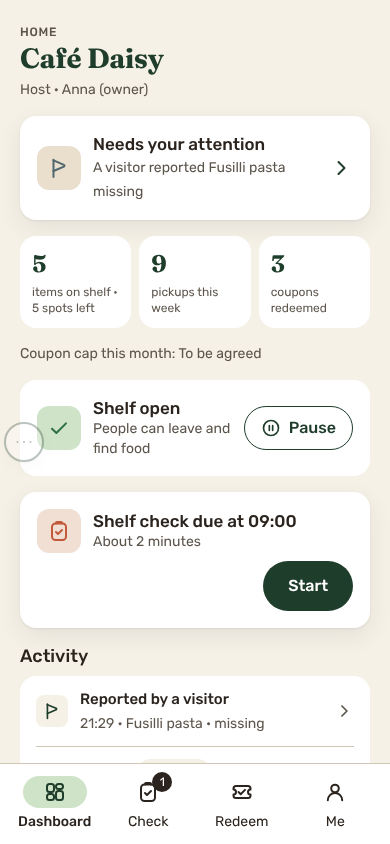
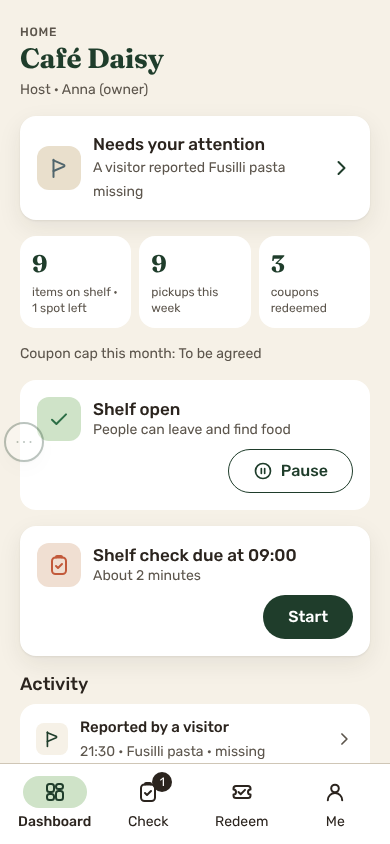
QA round 11: one 44px button size everywhere; H06 Pause sits bottom right like Start
Claude-Session: https://claude.ai/code/session_019nAgAZrg3yS11uUXaPsh2b

Changed region(s): [[0.0308, 0.4621, 0.9538, 0.8934], [0.0923, 0.2773, 0.2462, 0.3697], [0.8923, 0.4929, 0.9231, 0.5237]]

diff --git a/index.html b/index.html
@@ -751,7 +751,7 @@ svg.leaflet-image-layer.leaflet-interactive path {
   --shadow-sheet:0 -4px 24px rgba(43,36,30,.12);
   --shadow-focus:0 0 0 2px #FFFFFF,0 0 0 5px #2F6E8C;
   /* size and motion */
-  --size-tap-min:44px; --size-control:48px; --frame-max:430px; --size-avatar:48px; --size-tab-indicator:64px;
+  --size-tap-min:44px; --size-button:44px; /* [NEW] QA round 11 (Q104): every button, was 48 (+ border = 51) */ --size-control:48px; --frame-max:430px; --size-avatar:48px; --size-tab-indicator:64px;
   --motion-fast:150ms; --motion-base:250ms; --ease:cubic-bezier(.2,0,0,1);
   --motion-tab:200ms; --ease-in-out:cubic-bezier(.65,0,.35,1); /* [NEW] QA round 2: sliding tab indicator */
   /* [NEW] QA round 3: notifications (top toasts) */
@@ -952,7 +952,7 @@ h1[tabindex="-1"]:focus,h2[tabindex="-1"]:focus{box-shadow:none}
 /* ---- Button: v0.5 pill ---- */
 .btn{
   display:inline-flex;align-items:center;justify-content:center;gap:var(--space-8);
-  min-height:var(--size-control);padding:var(--space-12) var(--space-24);
+  min-height:var(--size-button);padding:var(--space-8) var(--space-24);   /* QA round 11: one button size everywhere, 44px */
   border-radius:var(--radius-full);border:var(--border-w) solid transparent;
   font:var(--type-button);text-align:center;text-decoration:none;
   transition:background-color var(--motion-fast) var(--ease),transform var(--motion-fast) var(--ease);
@@ -1474,7 +1474,7 @@ button.settings__row:active{background:var(--surface-canvas)}
 .log__main{display:flex;flex-wrap:wrap;align-items:center;gap:var(--space-4) var(--space-8)}
 .log__title{font:var(--type-body-list);font-weight:500}
 .log__sub{flex-basis:100%;font:var(--type-body-small);color:var(--text-secondary)}
-.shelfstate .btn{flex:none;min-height:var(--size-tap-min);padding:var(--space-8) var(--space-16)}
+.shelfstate .btn{flex:none}
 .shelfstate__note{margin-top:var(--space-12)}
 .log__time{font:var(--type-body-small);color:var(--text-tertiary);white-space:nowrap}
 
@@ -1736,7 +1736,7 @@ button.settings__row:active{background:var(--surface-canvas)}
 .modfab .icon{color:var(--icon-primary)}
 .modfab.is-active,.modfab:focus-visible{opacity:1}
 .modfab.is-dragging{transition:opacity var(--motion-fast) var(--ease);cursor:grabbing}
-.mod .btn{min-height:var(--size-tap-min);padding:var(--space-8) var(--space-12);font:var(--type-label)}
+.mod .btn{padding-left:var(--space-12);padding-right:var(--space-12);font:var(--type-label)}
 .mod__grid{display:grid;grid-template-columns:1fr 1fr;gap:var(--space-8)}
 .mod__sec{display:flex;flex-direction:column;gap:var(--space-8);padding-top:var(--space-16);margin-top:var(--space-16);border-top:1px solid var(--border-subtle)}
 .mod select{width:100%;min-height:var(--size-control);border-radius:var(--radius-md);border:var(--border-w) solid var(--border-strong);background:var(--surface-default);padding:0 var(--space-12);font:var(--type-body)}
@@ -5853,9 +5853,9 @@ Views.hostDash = {
         <p class="t-small c-secondary">Coupon cap this month: To be agreed</p>
         <section class="card shelfstate${paused ? ' is-paused' : ''}" aria-labelledby="h06-state">
           <div class="row"><span class="tile ${paused ? 'tile--oat' : ''}">${icon(paused ? 'pause' : 'done', paused ? 'icon--waiting' : 'icon--success')}</span>
-            <div class="grow"><h2 class="t-title" id="h06-state">${paused ? 'Shelf paused' : 'Shelf open'}</h2><p class="t-small c-secondary">${paused ? `${esc(v.paused.reason)} · until ${esc(v.paused.until)}` : 'People can leave and find food'}</p></div>
-            ${paused ? UI.button({ label: 'Resume', icon: 'retry', attrs: 'data-resume' }) : UI.button({ label: 'Pause', variant: 'secondary', icon: 'pause', attrs: 'data-href="#/host/pause"' })}</div>
-          ${paused ? '<p class="t-small c-secondary shelfstate__note">People see “Paused” on the map. Pickups are still allowed.</p>' : ''}</section>
+            <div class="grow"><h2 class="t-title" id="h06-state">${paused ? 'Shelf paused' : 'Shelf open'}</h2><p class="t-small c-secondary">${paused ? `${esc(v.paused.reason)} · until ${esc(v.paused.until)}` : 'People can leave and find food'}</p></div></div>
+          ${paused ? '<p class="t-small c-secondary shelfstate__note">People see “Paused” on the map. Pickups are still allowed.</p>' : ''}
+          <div class="row" style="justify-content:flex-end;margin-top:var(--space-8)">${paused ? UI.button({ label: 'Resume', icon: 'retry', attrs: 'data-resume' }) : UI.button({ label: 'Pause', variant: 'secondary', icon: 'pause', attrs: 'data-href="#/host/pause"' })}</div></section>
         ${h.checkDue ? `<section class="card card--shadow duecard"><div class="row"><span class="tile tile--accent">${icon('shelf-check', 'icon--accent')}</span><div class="grow"><h2 class="t-title">Shelf check due at ${esc(h.reminder)}</h2><p class="t-small c-secondary">About 2 minutes</p></div></div>
             <div class="row" style="justify-content:flex-end;margin-top:var(--space-8)">${UI.button({ label: 'Start', attrs: 'data-startcheck' })}</div></section>`
           : `<section class="banner banner--success" role="status">${icon('done')}<div class="banner__text"><strong>Shelf checked</strong> · Next check tomorrow ${esc(h.reminder)}</div></section>`}

diff --git a/docs/open-questions.md b/docs/open-questions.md
@@ -171,6 +171,7 @@ Found while completing every screen for the Tuesday tests. Conflict rules (CLAUD
 | Q101 | Visual QA round 8 (15 Nov) | G11, O04 / rules sheet, G06, R05, H06, H08, all buttons | **G11:** title in the serif top bar like the other detail screens; "Your November" replaced by a month picker chip (native month / year wheel; earlier months are demo data, 3 months back); "This month" label in Pantry Green; chart heading shortened to "By week"; bars under 5 items Ochre 500 (`--chart-low` [NEW]), 5 or more Pantry Green (`--chart-high` [NEW]), legend added; a week with nothing passed on has no bar; the tip shows for the current month only. Ochre outside rewards is an exception to §2.5 (please confirm), and Ochre 500 on Paper is about 3:1, so the numbers above the bars carry the meaning. **Rules:** headings 18/24 Rubik 700; "Every item you leave is welcome, even if the box is a little worn." removed (was a fixed string in CLAUDE.md §7). **G06:** best-before calendar icon removed; the hint under Confirm is gone, tapping the disabled button explains it in a notification and highlights the checkbox (applied to every gated button except G03 full shelf and H04 waiting, which keep a printed reason). **R05:** Leaf "Sealed" pill from G06; Confirm pickup is Primary green; new description; general link "Report a problem"; "Not here?" opens a confirmation sheet first (illustration slot `data-art-slot="report-missing"` is a placeholder). **No Terracotta buttons anywhere** (Confirm pickup, H07b Mark as redeemed, X01 Confirm). **Host:** open reports show as a card on H06, a count badge on the Check tab and a flagged row in H08 ("Reported missing by a visitor · time"); the next submitted check resolves them. Moderator: "Simulate: Missing-item report (host)". Open: should reports also notify the host by push / email outside the app (not built)? Should the trash icon in G06 stay Terracotta (destructive, Q94)? Saved demo state version bumped to 4, so testers' phones start fresh. |
 | Q102 | Visual QA round 9 (15 Nov): answers to Q101 | G11, design system §2.5, H06, H11, H12, H08 | **Decided:** no gold in the G11 chart; one green ramp shows density (1–2 Leaf · 3–4 `green-300` [NEW] `#9FC096` · 5–7 Forest · 8+ Pantry Green, tokens `--chart-1…4`, `--chart-edge`); the earlier `--chart-low` / `--chart-high` are gone. The designer suggested green-50 for the lowest step; it is almost invisible on a Paper card, so Leaf (green-100) with a Forest outline is used instead (please confirm). The G06 trash icon stays Terracotta: Terracotta is allowed on a destructive icon, never as a button fill (example added to §2.5). Hosts get no push or email for reports outside the app. **Built:** H06 "Needs your attention" callout (summary only, stays until answered) → H11 Reported items (what happened, who: an anonymous visitor in the app, when, the note; actions It’s there, all OK · It’s gone, mark missing · Remove it from the shelf, each with Undo; an Answered list); H12 Notifications from host Me (new / earlier, push toggle, simulated). Codes H11 / H12 because H09 / H10 were already reserved for the not-built Shelf tab and Settings. Open: which staff name is recorded when a report is answered (now the first staff member; H08 has a picker)? |
 | Q103 | Visual QA round 10 (15 Nov) | H06 | The Slate left edge on the "Needs your attention" card is removed. The H06 cards now share one 44px icon tile size (the "Shelf open" / "Shelf paused" tile was the 32px small tile). |
+| Q104 | Visual QA round 11 (15 Nov) | All buttons, H06 | **One button size:** every button (Primary, Secondary, on-brand, link) is 44px tall (`--size-button` [NEW]); before, buttons were 48px + a 1.5px border on each side (about 51px) while small in-card buttons were 44px. Inputs stay 48px. Measured 36 buttons across 22 screens: all 44px. **H06:** Pause / Resume now sits bottom right of the shelf card, like Start on the shelf-check card. |
 
 ### Q14 update: new copy proposed in the 15 Nov frames (used in the build, please confirm or replace)
 - **O01–O04**: "Food that’s still good, passed on." · "Leave sealed food you won’t eat on a café shelf near you, or find something you can use." · "Shelves in local cafés, open to everyone. Givers and takers never need to meet." · the four O02 rows · "How will you use SecondShelf?" · "You can change this later in Me." · "Leave and find food" / "Host a shelf" card texts · "Hosts can still leave and find food." · the Yes / Not on the shelf lists · "I’ll follow the sharing rules and terms" · "Start using SecondShelf" · "Tick the box to continue".

diff --git a/docs/design-system.md b/docs/design-system.md
@@ -203,7 +203,7 @@ Nested rule: inner radius = outer radius − padding. In practice, items inside 
 - `shadow-sheet`: `0 -4px 24px rgba(43,36,30,.12)`. For bottom sheets and fixed action bars.
 - `shadow-focus`: `0 0 0 2px #FFFFFF, 0 0 0 5px #2F6E8C`. On dark fills, use a Paper ring instead.
 - Sizes:
-  - `size-tap-min` 44 · `size-control` 48 (buttons, inputs)
+  - `size-tap-min` 44 · `size-button` 44 **[NEW] Q104** (every button) · `size-control` 48 (inputs)
   - icons `16 / 20 / 24 / 32` (stroke 1.5 at 16, otherwise 2)
   - frame 390 × 844, layout max-width 430
   - **v0.4** avatar 48 · tab indicator pill 64 × 32 · toggle 52 × 32
@@ -318,7 +318,7 @@ Every component uses semantic tokens only and is built with all its states.
 
 | Component | Recipe | States |
 |---|---|---|
-| **Button** | **v0.5 pill**: 48px, `radius-full`, padding 12/24, `button` type, optional 20px leading icon (gap 8) | Primary (`action-primary`) · ~~Accent~~ (removed QA round 8, Q101) · Secondary (Paper + 1.5px `border-brand`) · Text link · (v0.4 Dark button removed) · default / hover / pressed / focus / loading / disabled |
+| **Button** | **v0.5 pill**: **44px** (`--size-button`, QA round 11, Q104: one size for every button; was 48 + border), `radius-full`, padding 8/24, `button` type, optional 20px leading icon (gap 8) | Primary (`action-primary`) · ~~Accent~~ (removed QA round 8, Q101) · Secondary (Paper + 1.5px `border-brand`) · Text link · (v0.4 Dark button removed) · default / hover / pressed / focus / loading / disabled |
 | **Input** | Label above (`label`, `text-secondary`, gap 8); field 48px, `radius-md`, 1.5px `border-strong`, Paper, 16px text, placeholder `text-tertiary` | default · focus (`border-brand` + `shadow-focus`) · filled · error (`text-problem` border + flag icon + message under the field) · disabled |
 | **Search field** | Pill (`radius-full`), 48px, Paper, **v0.5 flat: 1.5px `border-strong`, no shadow**, gold `search` icon (`icon-reward`), placeholder `text-tertiary`; separate 48px round filter button; suggestions list below (Paper, `radius-md`) | empty · typing with suggestions · results |
 | **Filter chip** | `radius-full`, min 44px, `label` type, 16px side padding, gap 8 | default (Paper + `border-strong`) · selected (**Q96:** Ink `--surface-toggle-on` fill + gold tick `--icon-on-toggle` + Paper text, same as the Map / List switch) |
